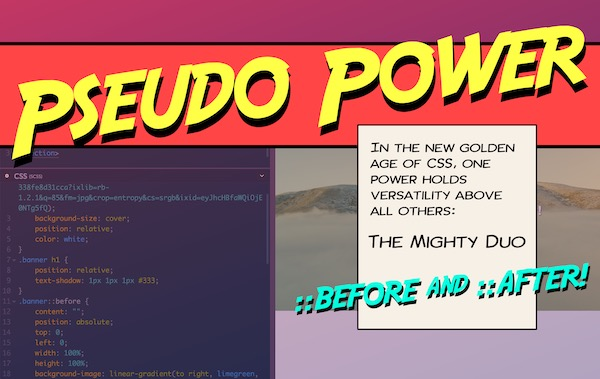
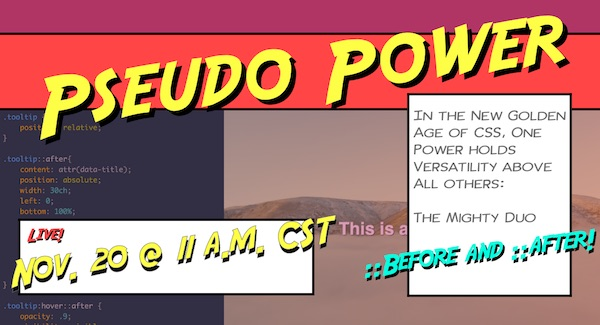
Changes some promos for live pseudo element workshop

diff --git a/src/blog/2018-04-30-how-to-css-after-elements-for-background-overlays.md b/src/blog/2018-04-30-how-to-css-after-elements-for-background-overlays.md
@@ -12,11 +12,16 @@ description: Use :after elements to create the simplest HTML possible to render 
 grid-size: large
 updated: 05 March, 2019
 adSpace: 
-  image: /images/common-grid-promo.jpg
-  headline: Free ebook - Common CSS Grid Patterns
-  description: CSS Grid is a revolution in web layout. With this ebook, I cover 3 design patterns that Grid solves easier, better and more creatively to help push our designs in better directions.
-  linkText: Download Now!
-  linkUrl: https://store.codecontemporary.com/solving-three-design-problems-with-css-grid/buy
+    image: /images/pseudo-power.jpg
+    headline: "Live Pseudo Selector Workshop"
+    description: "CSS has an amazing power set. Not the least of which is creating stylistic elements on the fly using Pseudo Elements (::after and ::before). We'll cover the basics of ::before and ::after and explore three different powerful design patterns utilizing them."
+    linkText: "Sign Up Now"
+    linkUrl: https://store.codecontemporary.com/nov-20-11-a-m-cst-pseudo-elements-basics-after-and-before
+#   image: /images/common-grid-promo.jpg
+#   headline: Free ebook - Common CSS Grid Patterns
+#   description: CSS Grid is a revolution in web layout. With this ebook, I cover 3 design patterns that Grid solves easier, better and more creatively to help push our designs in better directions.
+#   linkText: Download Now!
+#   linkUrl: https://store.codecontemporary.com/solving-three-design-problems-with-css-grid/buy
 ---
 
 <aside class="reference">

diff --git a/src/blog/2019-04-02-using-eleventys-javascript-data-files.md b/src/blog/2019-04-02-using-eleventys-javascript-data-files.md
@@ -9,11 +9,11 @@ baseLayout: container--right
 description: I enjoy building workflows for pure static sites. I enjoy ingesting data into my build process instead of loading my client-side with fetches. In this example, we'll use Eleventy's ability to use a JavaScript file, to execute code to fetch data on site build, negating the need for task runners like Gulp.
 featuredImg: /images/icons/icon-512x512.png
 adSpace: 
-  image: /images/practical-grid-heart.jpg
-  headline: Practical CSS Grid - Learn about this revolution in Web design!
-  description: Whether you're new to CSS Grid or have played with it, finding practical examples of this new layout mechanism is the best way to learn it's power. Sign up below for two hours of practical grid knowledge just for you!
-  linkText: Start Learning Now!
-  linkUrl: https://store.codecontemporary.com/practical-css-grid
+  image: /images/pseudo-power.jpg
+  headline: "Live Pseudo Selector Workshop"
+  description: "CSS has an amazing power set. Not the least of which is creating stylistic elements on the fly using Pseudo Elements (::after and ::before). We'll cover the basics of ::before and ::after and explore three different powerful design patterns utilizing them."
+  linkText: "Sign Up Now"
+  linkUrl: https://store.codecontemporary.com/nov-20-11-a-m-cst-pseudo-elements-basics-after-and-before
 sidebarOverride: "15"
 ---
 

diff --git a/src/blog/2018-08-07-top-3-uses-of-after-and-before-css-pseudo-elements.md b/src/blog/2018-08-07-top-3-uses-of-after-and-before-css-pseudo-elements.md
@@ -13,11 +13,11 @@ description: It’s no secret that I'm a fan of ::before and ::after pseudo-elem
 grid-size: large
 updated: 20 Aug, 2018
 adSpace: 
-  image: /images/common-grid-promo.jpg
-  headline: Free ebook - Common CSS Grid Patterns
-  description: CSS Grid is a revolution in web layout. With this ebook, I cover 3 design patterns that Grid solves easier, better and more creatively to help push our designs in better directions.
-  linkText: Download Now!
-  linkUrl: https://store.codecontemporary.com/solving-three-design-problems-with-css-grid/buy
+  image: /images/pseudo-power.jpg
+  headline: "Live Pseudo Selector Workshop"
+  description: "CSS has an amazing power set. Not the least of which is creating stylistic elements on the fly using Pseudo Elements (::after and ::before). We'll cover the basics of ::before and ::after and explore three different powerful design patterns utilizing them."
+  linkText: "Sign Up Now"
+  linkUrl: https://store.codecontemporary.com/nov-20-11-a-m-cst-pseudo-elements-basics-after-and-before
 ---
 
 It’s no secret that I'm a fan of ::before and ::after pseudo-elements. I use them to great effect for [creating darkened overlays in this previous post](/blog/2018/04/30/how-to-css-after-elements-for-background-overlays/).

diff --git a/src/blog/2017-07-26-howto-css-grid-layout-to-make-a-simple-fluid-card-grid.md b/src/blog/2017-07-26-howto-css-grid-layout-to-make-a-simple-fluid-card-grid.md
@@ -13,11 +13,11 @@ featuredLarge: True
 baseLayout: container--right
 updated: 14 Aug, 2018
 adSpace: 
-  image: /images/common-grid-promo.jpg
-  headline: Free ebook - Common CSS Grid Patterns
-  description: CSS Grid is a revolution in web layout. With this ebook, I cover 3 design patterns that Grid solves easier, better and more creatively to help push our designs in better directions.
-  linkText: Download Now!
-  linkUrl: https://store.codecontemporary.com/solving-three-design-problems-with-css-grid/buy
+    image: /images/pseudo-power.jpg
+    headline: "Live Pseudo Selector Workshop"
+    description: "CSS has an amazing power set. Not the least of which is creating stylistic elements on the fly using Pseudo Elements (::after and ::before). We'll cover the basics of ::before and ::after and explore three different powerful design patterns utilizing them."
+    linkText: "Sign Up Now"
+    linkUrl: https://store.codecontemporary.com/nov-20-11-a-m-cst-pseudo-elements-basics-after-and-before
 ---
 
 In this tutorial, I'm going to show you how to take one of the most common tropes of web design -- the card grid -- and make it fluid. 

diff --git a/src/blog/2018-01-24-tip-use-rotate-and-skew-together-to-introduce-punk-rock-design.md b/src/blog/2018-01-24-tip-use-rotate-and-skew-together-to-introduce-punk-rock-design.md
@@ -11,11 +11,11 @@ baseLayout: container--right
 updated: 18 Feb, 2019
 featured: true
 adSpace: 
-  image: /images/common-grid-promo.jpg
-  headline: Free ebook - Common CSS Grid Patterns
-  description: CSS Grid is a revolution in web layout. With this ebook, I cover 3 design patterns that Grid solves easier, better and more creatively to help push our designs in better directions.
-  linkText: Download Now!
-  linkUrl: https://store.codecontemporary.com/solving-three-design-problems-with-css-grid/buy
+    image: /images/pseudo-power.jpg
+    headline: "Live Pseudo Selector Workshop"
+    description: "CSS has an amazing power set. Not the least of which is creating stylistic elements on the fly using Pseudo Elements (::after and ::before). We'll cover the basics of ::before and ::after and explore three different powerful design patterns utilizing them."
+    linkText: "Sign Up Now"
+    linkUrl: https://store.codecontemporary.com/nov-20-11-a-m-cst-pseudo-elements-basics-after-and-before
 ---
 
 
